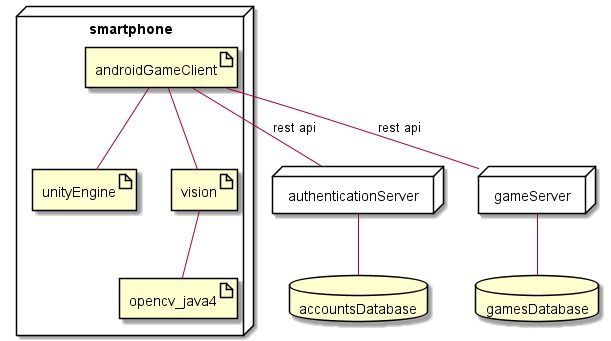
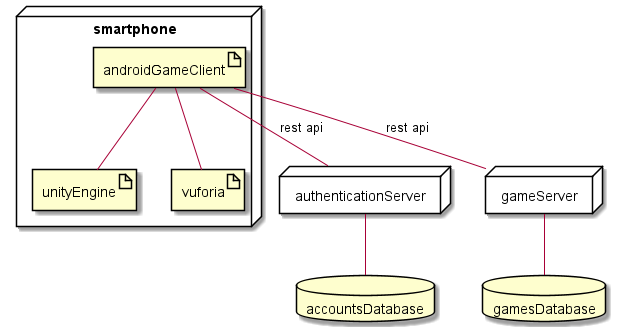
Added treasure hunt loading from device storage

Changed region(s): [[0.0, 0.0, 0.9951, 1.0]]

diff --git a/Assets/Scripts/TreasureHunt/TreasureHunt.cs b/Assets/Scripts/TreasureHunt/TreasureHunt.cs
@@ -1,53 +1,106 @@
 using System.Collections;
 using System.Collections.Generic;
-using System.IO;
 using UnityEngine;
 using UnityEngine.Networking;
 using Vuforia;
 
 public class TreasureHunt : MonoBehaviour {
-    /*public void Start() {
-        VuforiaApplication.Instance.OnVuforiaStarted += () => {
-            Debug.Log("Vuforia started");
-            Texture2D testObject = 
-            var target = VuforiaBehaviour.Instance.ObserverFactory.CreateImageTarget(testObject, 0.05f, "test");
-            target.gameObject.AddComponent<DefaultObserverEventHandler>();
-            target.gameObject.GetComponent<DefaultObserverEventHandler>().OnTargetFound.AddListener(() => {
-                Debug.Log("Target found");
-                Handheld.Vibrate();
-            });
-            target.enabled = true;
-        };
-        //VuforiaApplication.Instance.Initialize();
-    }*/
-
-    void Start() {
-        StartCoroutine(CreateImageTargetFromDownloadedTexture());
+    [System.Serializable]
+    private class HuntDescriptor {
+        public string format;
+        public TreasureDescriptor[] treasures;
     }
 
-    IEnumerator CreateImageTargetFromDownloadedTexture() {
-        using (UnityWebRequest uwr = UnityWebRequestTexture.GetTexture(Path.Combine(Application.streamingAssetsPath, "TestTrackers/tracker_0_scaled.jpg"))) {
-            yield return uwr.SendWebRequest();
+    [System.Serializable]
+    private class TreasureDescriptor {
+        public string type;
+        public string url;
+        public string hint;
+    }
 
-            if (uwr.isNetworkError || uwr.isHttpError) {
-                Debug.Log(uwr.error);
-            } else {
-                var target = VuforiaBehaviour.Instance.ObserverFactory.CreateImageTarget(DownloadHandlerTexture.GetContent(uwr), 0.10f, "test");
-                DefaultObserverEventHandler handler = target.gameObject.AddComponent<TrackedImageBehaviour>();
+    private class Treasure {
+        string hint;
+        ImageTargetBehaviour target;
+
+        public delegate void DetectionCallback(Treasure treasure);
+
+        /* Needed for coroutines */
+        public Treasure(TreasureHunt hunt, TreasureDescriptor descriptor, GameServer server, DetectionCallback callback) {
+            hunt.StartCoroutine(DownloadTreasure(descriptor.url, server, () => callback(this)));
+            hunt.StartCoroutine(DownloadHint(descriptor.hint, server));
+        }
+
+        public string GetName() {
+            return target.gameObject.name;
+        } 
+
+        private IEnumerator DownloadTreasure(string path, GameServer server, TrackedImageBehaviour.DetectionCallback callback) {
+            Debug.Log(server.GetImageLocation(path));
+            using (var request = UnityWebRequestTexture.GetTexture(server.GetImageLocation(path))) {
+                yield return request.SendWebRequest();
+
+                switch (request.result) {
+                    case UnityWebRequest.Result.Success:
+                        target = VuforiaBehaviour.Instance.ObserverFactory.CreateImageTarget(
+                            DownloadHandlerTexture.GetContent(request), 0.10f, path);
+                        var handler = target.gameObject.AddComponent<TrackedImageBehaviour>();
+                        handler.SetDetectionCallback(callback);
+                        break;
+                    default:
+                        Debug.LogError(request.error);
+                        break;
+                }
+            }
+        }
+
+        private IEnumerator DownloadHint(string path, GameServer server) {
+            Debug.Log(server.GetHintLocation(path));
+            using (var request = UnityWebRequest.Get(server.GetHintLocation(path))) {
+                yield return request.SendWebRequest();
+
+                switch (request.result) {
+                    case UnityWebRequest.Result.Success:
+                        hint = request.downloadHandler.text;
+                        break;
+                    default:
+                        Debug.LogError(request.error);
+                        break;
+                }
             }
         }
     }
+    
+    private Treasure[] treasures;
 
-    public void TestHandler() {
-        Debug.Log("Target found");
+    void Awake() {
+        DontDestroyOnLoad(gameObject);        
+    }
+
+    public void LoadHunt(string id, GameServer server) {
+        StartCoroutine(DownloadHunt(id, server));
+    }
+
+    private void OnTreasureSeen(Treasure treasure) {
+        Debug.Log("Found treasure " + treasure.GetName());
         Handheld.Vibrate();
     }
 
-    public void OnDestroy() {
-        //VuforiaApplication.Instance.Deinit();
-    }
+    private IEnumerator DownloadHunt(string path, GameServer server) {
+        using (var request = UnityWebRequest.Get(server.GetHuntDescriptorLocation(path))) {
+            yield return request.SendWebRequest();
 
-    public void FixedUpdate() {
-        // Debug.Log(Vision.DetectObject(cameraService.GetCameraTexture(), testObject));
+            switch (request.result) {
+                case UnityWebRequest.Result.Success:
+                    var huntDescriptor = JsonUtility.FromJson<HuntDescriptor>(request.downloadHandler.text);
+                    var treasuresList = new List<Treasure>();
+                    foreach (var treasure in huntDescriptor.treasures) {
+                        treasuresList.Add(new Treasure(this, treasure, server, OnTreasureSeen));
+                    }
+                    break;
+                default:
+                    Debug.LogError(request.error);
+                    break;
+            }
+        }
     }
 }

diff --git a/Assets/Scripts/Common/GameServer.cs b/Assets/Scripts/Common/GameServer.cs
@@ -1,0 +1,39 @@
+using System.Collections;
+using System.Collections.Generic;
+using System.IO;
+using UnityEngine;
+using UnityEngine.Networking;
+
+public abstract class GameServer {
+    public abstract string GetHuntDescriptorLocation(string id);
+    public abstract string GetImageLocation(string url);
+    public abstract string GetHintLocation(string url);
+}
+
+public class LocalServer : GameServer {
+    public override string GetHintLocation(string url) {
+        return Path.Combine(Application.streamingAssetsPath, url);
+    }
+
+    public override string GetHuntDescriptorLocation(string id) {
+        return Path.Combine(Application.streamingAssetsPath, "hunts", id, "descriptor");
+    }
+
+    public override string GetImageLocation(string url) {
+        return Path.Combine(Application.streamingAssetsPath, url);
+    }
+}
+
+public class RemoteServer : GameServer {
+    public override string GetHintLocation(string url) {
+        throw new System.NotImplementedException();
+    }
+
+    public override string GetHuntDescriptorLocation(string id) {
+        throw new System.NotImplementedException();
+    }
+
+    public override string GetImageLocation(string url) {
+        throw new System.NotImplementedException();
+    }
+}

diff --git a/Assets/Scripts/TreasureHunt/TrackedImageBehaviour.cs b/Assets/Scripts/TreasureHunt/TrackedImageBehaviour.cs
@@ -3,11 +3,17 @@ using UnityEngine.Events;
 using Vuforia;
 
 public class TrackedImageBehaviour : DefaultObserverEventHandler {
+    public delegate void DetectionCallback();
+
+    private DetectionCallback callback = null;
+
     protected override void HandleTargetStatusChanged(Status previousStatus, Status newStatus) {
         if (newStatus == Status.TRACKED && previousStatus != newStatus) {
-            Debug.Log("Tracker detected");
-            Debug.Log(gameObject.name);
-            Handheld.Vibrate();
+            if (callback != null) callback();
         }
+    }
+
+    public void SetDetectionCallback(DetectionCallback callback) {
+        this.callback = callback;
     }
 }

diff --git a/Assets/Scripts/TitleScreen/TitleScreen.cs b/Assets/Scripts/TitleScreen/TitleScreen.cs
@@ -5,7 +5,10 @@ using UnityEngine.SceneManagement;
 
 public class TitleScreen : MonoBehaviour {
     public void StartGame() {
-        SceneManager.LoadScene("TreasureHunt", LoadSceneMode.Single);
+        var huntDataObject = new GameObject("HuntData");
+        var huntData = huntDataObject.AddComponent<TreasureHunt>();
+        huntData.LoadHunt("0", new LocalServer());
+        SceneManager.LoadSceneAsync("TreasureHunt", LoadSceneMode.Single);
     }
 
     public void CreateGame() {

diff --git a/Assets/Scripts/TreasureHunt/TreasureHuntManager.cs b/Assets/Scripts/TreasureHunt/TreasureHuntManager.cs
@@ -1,0 +1,10 @@
+using System.Collections;
+using System.Collections.Generic;
+using System.IO;
+using UnityEngine;
+using UnityEngine.Networking;
+using Vuforia;
+
+public class TreasureHuntManager : MonoBehaviour {
+
+}
